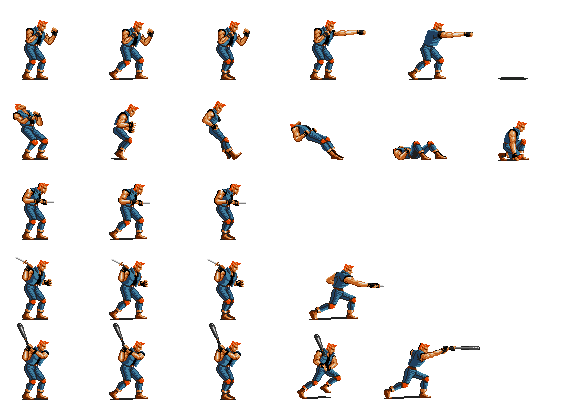
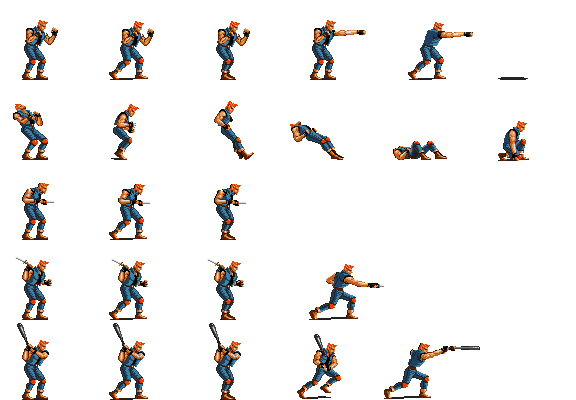
Player can hold an enemy from the back now

Changed region(s): [[0.3438, 0.24, 0.4375, 0.42]]

diff --git a/EntityManager.cpp b/EntityManager.cpp
@@ -128,57 +128,69 @@ Entity* EntityManager::CreateEntity(Entity::Types type)
 
 void EntityManager::HandleCollision(Collider* a, Collider* b)
 {
-	Collider* first = nullptr;
-	Collider* second = nullptr;
-	
+	Entity* first = nullptr;
+	Entity* second = nullptr;
+	colliderType first_type;
+	colliderType second_type;
+		
 	// order by type to ease the logic
-	if (a->type < b->type)
-		{first = a; second = b;}
+	if (a->type <= b->type)
+	{
+		first = a->parent; first_type = a->type; 
+		second = b->parent; second_type = b->type;
+	}
 	else
-		{first = b; second = a;}
+	{
+		first = b->parent; first_type = b->type; 
+		second = a->parent; second_type = a->type;
+	}
 
-	int depth_difference = a->parent->GetDepth() - b->parent->GetDepth();
-	if (depth_difference < -6 || depth_difference > 6)
+	int depth_difference = first->GetDepth() - second->GetDepth();
+	if (depth_difference < -5 || depth_difference > 5)
 		return;
 
-	switch (first->type)
+
+	switch (first_type)
 	{
 		case colliderType::PLAYER:
-			if (second->type == colliderType::ITEMS)	//Take item!
+			if (second_type == colliderType::ITEMS)	//Take item!
 			{
 
 			}
-			else if (second->type == colliderType::ENEMY)	// Holding!
+			else if (second_type == colliderType::ENEMY)	// Holding!
 			{
-				if ( first->parent->IsGrounded() &&
-					(first->parent->facing_right == true && first->parent->position.x < second->parent->position.x) ||
-					(first->parent->facing_right == false && second->parent->position.x < first->parent->position.x) )
+				if ( first->IsGrounded() &&
+					(first->facing_right == true && first->position.x <= second->position.x) ||
+					(first->facing_right == false && second->position.x <= first->position.x) )
 				{
-					if (first->parent->facing_right == second->parent->facing_right)	// back hold
+					if (first->facing_right == second->facing_right)	// back hold
 					{
-						//first->parent->HoldingBack(); 
-						//second->parent->BeingHoldBack();
+						first->SetHoldingBack(); 
+						second->SetBeingHoldBack();
 					}
 					else
 					{
-						first->parent->SetHoldingFront();
-						second->parent->SetBeingHoldFront();
+						first->SetHoldingFront();
+						second->SetBeingHoldFront();
 					}
-					if (depth_difference != 0)
-						second->parent->SetDepth(first->parent->GetDepth());
+					
+					if (depth_difference != 0) {
+						second->SetDepth(first->GetDepth());
+					}
+						
 				}
-				else
+				else 
 				{
-					second->parent->SetIdle();
+					second->SetIdle();
 				}
 			}
-			else if (second->type == colliderType::ENEMY_ATTACK)	// Being hit!
+			else if (second_type == colliderType::ENEMY_ATTACK)	// Being hit!
 			{
-				if (second->parent->attacking && first->parent->hittable)
+				if (second->attacking && first->hittable)
 				{
-					first->parent->SetBeingHit();
-					App->audio->PlayFx(second->parent->fx_attack_hit);
-					first->parent->DecreaseHealth(8);	// tmp
+					first->SetBeingHit();
+					App->audio->PlayFx(second->fx_attack_hit);
+					first->DecreaseHealth(8);	
 				}
 			}
 			else
@@ -188,13 +200,13 @@ void EntityManager::HandleCollision(Collider* a, Collider* b)
 		break;
 
 		case colliderType::PLAYER_ATTACK:
-			if (second->type == colliderType::ENEMY)	
+			if (second_type == colliderType::ENEMY)
 			{
-				if (first->parent->attacking  && second->parent->hittable )	
+				if (first->attacking  && second->hittable )	
 				{
-					second->parent->SetBeingHit();
-					App->audio->PlayFx(first->parent->fx_attack_hit);	
-					second->parent->DecreaseHealth(8); // tmp
+					second->SetBeingHit();
+					App->audio->PlayFx(first->fx_attack_hit);	
+					second->DecreaseHealth(8); // tmp
 				}
 			}
 			else

diff --git a/Player.cpp b/Player.cpp
@@ -470,7 +470,7 @@ bool Player::LoadFromConfigFile(const char* file_path)
 	json_array_clear(j_array);
 
 	//holding_front
-	attack_back.speed = (float)json_object_dotget_number(root_object, "player.holding_front.speed");
+	holding_front.speed = (float)json_object_dotget_number(root_object, "player.holding_front.speed");
 	j_array = json_object_dotget_array(root_object, "player.holding_front.frames");
 	for (int i = 0; i < (int)json_array_get_count(j_array); ++i)
 	{
@@ -480,6 +480,17 @@ bool Player::LoadFromConfigFile(const char* file_path)
 	}
 	json_array_clear(j_array);
 	
+	//holding_front
+	holding_back.speed = (float)json_object_dotget_number(root_object, "player.holding_back.speed");
+	j_array = json_object_dotget_array(root_object, "player.holding_back.frames");
+	for (int i = 0; i < (int)json_array_get_count(j_array); ++i)
+	{
+		j_array_inner = json_array_get_array(j_array, i);
+		holding_back.frames.push_back({ (int)json_array_get_number(j_array_inner, 0), (int)json_array_get_number(j_array_inner, 1), (int)json_array_get_number(j_array_inner, 2), (int)json_array_get_number(j_array_inner, 3) });
+		json_array_clear(j_array_inner);
+	}
+	json_array_clear(j_array);
+
 	//shadow
 	j_array = json_object_dotget_array(root_object, "player.shadow");
 	shadow = { (int)json_array_get_number(j_array,0), (int)json_array_get_number(j_array,1), (int)json_array_get_number(j_array,2), (int)json_array_get_number(j_array,3) };

diff --git a/EnemyGarcia.cpp b/EnemyGarcia.cpp
@@ -48,10 +48,6 @@ bool EnemyGarcia::Update(unsigned int msec_elapsed, const bool upd_logic)
 		{
 			if( is_being_hold == false)
 			{ 
-				if (parent->player->position.x >= position.x)
-					facing_right = true;
-				else
-					facing_right = false;
 				UpdateCurrentAnimation(&idle);
 				UpdatePosition({ 0,0 });
 			}
@@ -180,6 +176,16 @@ bool EnemyGarcia::LoadFromConfigFile(const char* file_path)
 	{
 		j_array_inner = json_array_get_array(j_array, i);
 		being_hold_front.frames.push_back({ (int)json_array_get_number(j_array_inner, 0), (int)json_array_get_number(j_array_inner, 1), (int)json_array_get_number(j_array_inner, 2), (int)json_array_get_number(j_array_inner, 3) });
+		json_array_clear(j_array_inner);
+	}
+	json_array_clear(j_array);
+
+	being_hold_back.speed = (float)json_object_dotget_number(root_object, "garcia.being_hold_back.speed");
+	j_array = json_object_dotget_array(root_object, "garcia.being_hold_back.frames");
+	for (int i = 0; i < (int)json_array_get_count(j_array); ++i)
+	{
+		j_array_inner = json_array_get_array(j_array, i);
+		being_hold_back.frames.push_back({ (int)json_array_get_number(j_array_inner, 0), (int)json_array_get_number(j_array_inner, 1), (int)json_array_get_number(j_array_inner, 2), (int)json_array_get_number(j_array_inner, 3) });
 		json_array_clear(j_array_inner);
 	}
 	json_array_clear(j_array);
